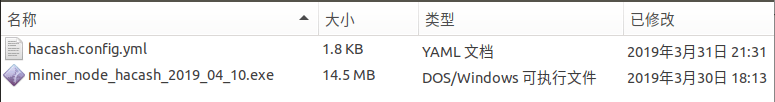
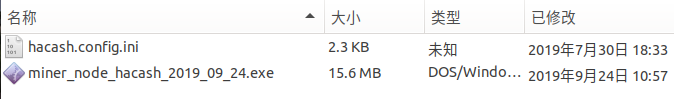
up

diff --git a/index.html b/index.html
@@ -5,7 +5,7 @@
     <meta charset="utf-8">
     <meta http-equiv="X-UA-Compatible" content="IE=edge">
 
-    <title>Hacash 开放金融货币新范式</title>
+    <title>Hacash</title>
 
     <meta name="viewport" content="width=device-width, initial-scale=1, user-scalable=no">
 
@@ -56,7 +56,7 @@
                 <b class="icologo">ㄜ</b>
             </div>
         </div><div class="pagecard info">
-            <h1><span>Hacash</span>开放金融货币新范式</h1>
+            <h1><span>Hacash</span></h1>
             <h3>一套面向开放金融和三方审计可大规模支付实时结算的加密货币生产流通及数字财富储藏体系。旨在提供无许可技术保证型可靠货币、消除信任成本、避免金融欺诈。货币符号为“ㄜ”，简称HCX。</h3>
             <div class="btns">
                 <a class="btn l" href="#quickstart"><i class="ftico">&#xf1d9;</i>快速开始使用</a>
@@ -188,24 +188,26 @@
         <div class="pagecard">
             <h1 class="pgtt">加入我们</h1>
             <div class="qrcode">
+                <!--
                 <div class="wx">
                     <img src="/image/joinus/hcx_coin.png" />
-                    <h5>共识社区微信群</h5>
+                    <h5>微信群</h5>
                 </div>
+                -->
                 <div class="qq">
                     <img src="/image/joinus/hcx_qq.jpg" />
-                    <h5>共识社区QQ交流群</h5>
+                    <h5>QQ交流群</h5>
                 </div>
                 <!--
                 <div class="wx">
                     <img data-src="/image/joinus/hcx_tech.png?_=1" />
                     <h5>技术研发群</h5>
                 </div>
-                -->
                 <div class="wb">
                     <img src="/image/joinus/hcx_weibo.png" />
                     <h5>开发者微博</h5>
                 </div>
+                -->
             </div>
             <div class="link">
                 <h5>其他社交平台：</h5>
@@ -225,7 +227,7 @@
     <div class="container">
         <div class="pagecard">
             <h1 class="pgtt">快速开始使用</h1>
-            <p class="p">主网第一阶段已经稳定运行，目前支持记账挖矿和转账交易。部分开发者已使用桌面电脑和云主机运行Hacash节点，相关的工具和服务正在开发当中。</p>
+            <p class="p">主网第一阶段已经稳定运行，目前支持记账挖矿、钻石采掘和货币、钻石的转账交易。部分开发者已使用桌面电脑、双路服务器和云主机运行Hacash节点，相关的工具和服务正在开发当中。</p>
             <p class="p">你可以使用在线钱包或者命令行工具，完成账户创建、查询余额、转账、发送交易，查询交易状态等基本操作。</p>
             <p class="p">
                 <a class="button olwlt" href="https://wallet.hacash.org" target="_blank">
@@ -254,8 +256,8 @@
 
             <br><br>
             <h1 class="pgtt">一、全节点挖矿</h1>
-            <p class="p">Hacash 发明的 x16rs 挖矿算法随机使用 16 种 sha3 系列的 hash 算法，可抵抗 ASIC 矿机的出现。目前最好的方案是使用电脑 CPU 进行记账挖矿，在初期将奖励的货币更广泛的分散在个人的手中，减少或规避了大量货币集中在少部分人手里，从而尽量避免价格操纵、恶意炒作等问题。</p>
-            <p class="p">欢迎大家使用闲置的桌面 PC 电脑或笔记本电脑进行记账挖矿，换取货币奖励。也可以购买的云服务商提供的主机成为稳定的矿工节点，以便打包交易并收取交易手续费，为整个网络的普及应用做出贡献。</p>
+            <p class="p">Hacash 发明的 X16RS 挖矿算法随机使用 16 种 sha3 系列的 hash 算法，可抵抗 ASIC 矿机的出现。目前最好的方案是使用电脑 CPU 进行记账挖矿，在初期将奖励的货币更广泛的分散在个人的手中，减少或规避了大量货币集中在少部分人手里，从而尽量避免价格操纵、恶意炒作等问题。</p>
+            <p class="p">欢迎大家使用闲置的桌面 PC 电脑或笔记本电脑进行记账挖矿，换取货币奖励。也可以购买的云服务商提供的主机成为稳定的矿工、矿池节点，以便收集打包交易，为整个网络的普及应用做出贡献。</p>
             <p class="p">
                 <a class="dld" href="https://github.com/hacash/blockmint#%E8%BF%90%E8%A1%8C%E6%8C%96%E7%9F%BF%E8%8A%82%E7%82%B9" target="_blank">
                     Linux下编译部署矿工节点操作手册
@@ -271,19 +273,18 @@
             <p class="p">
                 <img class="cutwrap lazy" data-src="/image/tobeminer/zipcon.png" />
             </p>
-            <p class="p">压缩包内的 hacash.config.yml 文件是矿工程序必备的配置文件，你可以用记事本程序打开此文件并修改它。右键单击 hacash.config.yml 文件选择以记事本打开，可看到内部内容为：</p>
+            <p class="p">压缩包内的 hacash.config.ini 文件是Hacash全节点程序必备的配置文件，你可以用记事本程序打开此文件并修改它。右键单击 hacash.config.ini 文件选择以记事本打开，可看到内部内容为：</p>
             <p class="p">
-                <img class="cutwrap lazy" data-src="/image/tobeminer/config_yml.png" />
+                <img class="cutwrap lazy" data-src="/image/tobeminer/config_ini.png" />
             </p>
-            <p class="p">最简单的情况下，你只需要修改配置文件中的两个参数：</p>
+            <p class="p">最简单的情况下，你只需要修改配置文件中<span class="val">[miner]</span>项下的两个参数 <span class="val">supervene</span>和<span class="val">rewards</span>：</p>
             <p class="p">
-                <img class="cutwrap lazy" data-src="/image/tobeminer/config_yml_change.png" />
+                <img class="cutwrap lazy" data-src="/image/tobeminer/config_ini_change.png" />
             </p>
             <p class="p">其中<span class="val">supervene</span>参数表示同时启用多少个线程挖矿，一般来说与你的电脑的 CPU 核心数量一致，能发挥最大的计算能力。比如你的电脑 CPU 核心数量为 2 核， 则将<span class="val">supervene: 8</span>改为<span class="val">supervene: 2</span>，如果为 4 核心则改为<span class="val">supervene: 4</span>，以此类推。这时电脑 CPU 的利用率为 100%，为避免电脑卡死，一般建议留出一个核心用于其它计算：4核心则设置为3，8核心则设置为7。也可以根据你的情况自由设置，数值越小，CPU 利用率越低。此值不支持小数，最小为1，也不建议设置成比电脑 CPU 核心数量更大的值。</p>
-            <p class="p"><span class="val">rewards</span>参数下面的 8 个字符串，是 Hacash 的账户地址，这里用来收取挖矿产生的货币奖励。此地址必须通过密码生成，有特定的格式，自己手动修改拼凑的地址无效！你可以使用 <a class="button olwlt" href="https://wallet.hacash.org" target="_blank">在线钱包</a>，通过只有你自己知晓并严格保密和做好备份的密码生成账户地址。</p>
-            <p class="p">一般建议生成 1 到 4 个地址，替换<span class="val">rewards</span>参数下面默认的地址。可删除多余的地址行。</p>
-            <p class="p notice">【请注意！】如果你不了解<span class="val">.yml</span>配置文件的格式要求，请不要任意更改配置文件中的字段格式、缩进、换行、空格等，格式错误将导致程序无法读取正确的配置信息，从而造成运行失败。</p>
-            <p class="p">修改完成后，保存文件并关闭记事本程序。请检查你的电脑正确的连接了互联网（矿工程序需要下载区块数据和实时同步新区快和交易数据）。此时即可双击运行 miner_node_hacash_2019_××_××.exe 可执行程序，不出错的情况下，将开到挖矿程序成功连接网络并开始同步下载数据：</p>
+            <p class="p"><span class="val">rewards</span>参数的字符串值，是 Hacash 的账户地址，这里用来收取挖矿产生的货币奖励。此地址必须通过密码生成，有特定的格式，自己手动修改拼凑的地址无效！你可以使用 <a class="button olwlt" href="https://wallet.hacash.org" target="_blank">在线钱包</a>，通过只有你自己知晓并严格保密和做好备份的密码，或者随机创建的私钥，生成账户地址。</p>
+            <p class="p notice">【请注意！】如果你不了解<span class="val">.ini</span>配置文件的格式要求，请不要任意更改配置文件中的字段格式、缩进、换行、空格等，格式错误将导致程序无法读取正确的配置信息，从而造成运行失败。</p>
+            <p class="p">修改完成后，保存文件并关闭记事本程序。请检查你的电脑正确的连接了互联网（矿工程序需要下载区块数据和实时同步新区快和交易数据）。此时即可双击运行 miner_node_hacash_2020_××_××.exe 可执行程序，不出错的情况下，将看到到挖矿程序成功连接网络并开始同步下载数据：</p>
             <p class="p">
                 <img class="cutwrap lazy" data-src="/image/tobeminer/sync_data.png" />
             </p>
@@ -292,13 +293,13 @@
                 <img class="cutwrap lazy" data-src="/image/tobeminer/sync_finish.png" />
             </p>
             <p class="p">这时程序已经自动开始挖矿了，可打开任务管理器查看 CPU 的利用率。</p>
-            <p class="p">整个 Hacash 矿工网络会大约 288 个区块约一天时间调整一次算力难度值，以保证每 5 分钟挖出一个区块。耐心等待 5 到 10 分钟，即可在程序窗口内看到打印信息：</p>
+            <p class="p">整个 Hacash 矿工网络会大约 288 个区块约一天时间调整一次算力难度值，以保证平均每 5 分钟挖出一个区块。耐心等待 5 到 10 分钟，即可在程序窗口内看到打印信息：</p>
             <p class="p">
                 <img class="cutwrap lazy" data-src="/image/tobeminer/new_block.png" />
             </p>
             <p class="p">... ... discovery new block insert success ... 打印信息表示从网络中发现了一个新的区块（别的矿工挖出来的区块），自己重新开始下一轮的挖矿。</p>
             <p class="p">⬤  ㄜ1:248, bh: 20735, tx: 0, hx: 00000003593c ... ... 打印信息表示自己抢先挖出了一个区块并成功获取了 1 枚 HCX 货币的奖励！</p>
-            <p class="p">【注意】如果中间过程中出现了错误，或者点击执行矿工程序没有反应，请确保你的网络保持在线。挖矿过程中也不能断网，否则挖矿程序无法实时同步区块信息，将导致挖矿无效！ 如果出现任何长时间无响应的问题，请关闭后重启挖矿客户端。</p>
+            <p class="p">【注意】如果中间过程中出现了错误，或者点击执行矿工程序没有反应，请确保你的网络环境良好并始终保持在线。挖矿过程中也不能断网，否则挖矿程序无法实时同步区块信息，将导致挖矿分叉无效！ 如果出现任何长时间无响应的问题，请关闭后重启挖矿客户端。</p>
         </div>
     </div>
 
@@ -307,7 +308,7 @@
     <div class="container">
         <div class="pagecard">
             <h1 class="pgtt">二、加入矿池挖矿</h1>
-            <p class="p">上面说的全节点挖矿需要同步所有区块数据，并且对网络环境的稳定性有相当高的要求（不然容易断网分叉），如果不具备较专业的硬件和网络运维知识、或者没有强大的CPU性能的计算机器，采用全节点挖矿方式将遇到一些不必要的麻烦，或者难以得到挖矿产出。</p>
+            <p class="p">上面说的全节点挖矿需要同步所有区块数据，并且对网络环境的稳定性有相当高的要求（不然容易断网分叉），如果不具备较专业的硬件环境和网络运维知识、或者没有强大的CPU性能的计算机器，采用全节点挖矿方式将遇到一些不必要的麻烦，或者难以得到挖矿产出。</p>
             <p class="p">我们建议小规模的挖矿参与者加入到矿池中，从而可以避免很多数据和网路运维的麻烦，并且也通过平均的算力统计方法，让大家能更加确定和均匀地分配到挖矿成果，抹平算力波动和运气成分。</p>
             <p class="p">通过点击以下链接，下载矿池型挖矿程序：</p>
             <p class="p">
@@ -319,14 +320,14 @@
             <p class="p">
                 <img class="cutwrap lazy" data-src="/image/tobeminer/zipcon_pool.png" />
             </p>
-            <p class="p">压缩包内的 poolworker.config.yml 文件是矿工程序必备的配置文件，你可以用记事本程序打开此文件并修改它。右键单击 poolworker.config.yml 文件选择以记事本打开，可看到内部内容为：</p>
+            <p class="p">压缩包内的 poolworker.config.ini 文件是矿工程序必备的配置文件，你可以用记事本程序打开此文件并修改它。右键单击 poolworker.config.ini 文件选择以记事本打开，可看到内部内容为：</p>
             <p class="p">
-                <img class="cutwrap lazy" data-src="/image/tobeminer/poolworker_config_yml.png" />
+                <img class="cutwrap lazy" data-src="/image/tobeminer/poolworker_config_ini.png" />
             </p>
-            <p class="p"><span class="val">pool</span>参数是矿池的地址，表示要连接的服务器的IP和端口。请联系你的矿池服务商获取有效的地址。不同的矿池服务商的抽成比例不一样，但是一些恶劣的人搭建的矿池将会有卷款潜逃的可能，请一定注意选择你信任的矿池方（不要轻易相信过低的抽成比例甚至倒贴补贴），否则将被欺骗而白白浪费算力。</p>
-            <p class="p"><span class="val">rewards</span>参数的字符串，是 Hacash 的账户地址，这里用来收取挖矿产生的货币奖励。此地址必须通过密码生成，有特定的格式，自己手动修改拼凑的地址无效！你可以使用 <a class="button olwlt" href="https://wallet.hacash.org" target="_blank">在线钱包</a>，通过只有你自己知晓并严格保密和做好备份的密码生成账户地址。此地址仅限一个。</p>
+            <p class="p"><span class="val">pool</span>参数是矿池的地址，表示要连接的服务器的IP和端口。请联系你的矿池服务商获取有效的地址。不同的矿池服务商的抽成比例不一样，但是一些不诚实的人搭建的矿池将会有卷款潜逃的可能，请一定注意选择你信任的矿池方（不要轻易相信过低的抽成比例甚至补贴），否则将被欺骗而白白浪费算力。</p>
+            <p class="p"><span class="val">rewards</span>参数的字符串，是 Hacash 的账户地址，这里用来收取挖矿产生的货币奖励。此地址必须通过密码生成，有特定的格式，自己手动修改拼凑的地址无效！你可以使用 <a class="button olwlt" href="https://wallet.hacash.org" target="_blank">在线钱包</a>，通过只有你自己知晓并严格保密和做好备份的密码，或者随机创建的私钥，生成账户地址。此地址仅限一个。</p>
             <p class="p">其中<span class="val">supervene</span>参数表示同时启用多少个线程挖矿，一般来说与你的电脑的 CPU 核心数量一致，能发挥最大的计算能力。比如你的电脑 CPU 核心数量为 2 核， 则将<span class="val">supervene: 8</span>改为<span class="val">supervene: 2</span>，如果为 4 核心则改为<span class="val">supervene: 4</span>，以此类推。这时电脑 CPU 的利用率为 100%，为避免电脑卡死，一般建议留出一个核心用于其它计算：4核心则设置为3，8核心则设置为7。也可以根据你的情况自由设置，数值越小，CPU 利用率越低。此值不支持小数，最小为1。注意：不能设置成比电脑 CPU 核心数量更大的值，否则算力将极度降低。</p>
-            <p class="p">修改完成后，保存文件并关闭记事本程序。请检查你的电脑正确的连接了互联网。此时即可双击运行 miner_pool_worker_hacash_2019_××_××.exe 可执行程序，不出错的情况下，将看到以下界面：</p>
+            <p class="p">修改完成后，保存文件并关闭记事本程序。请检查你的电脑正确的连接了互联网。此时即可双击运行 miner_pool_worker_hacash_2020_××_××.exe 可执行程序，不出错的情况下，将看到以下类似打印信息：</p>
             <p class="p">
                 <img class="cutwrap lazy" data-src="/image/tobeminer/pool_worker_start.png" />
             </p>
@@ -346,20 +347,22 @@
             <h1 class="pgtt">搭建矿池服务</h1>
             <p class="p">技术上来说，矿池就是一个挖矿全节点，只不过挖矿的运算被分配给很多台其他的计算机器去执行，它们之间用网络连接进行通信。也就是说，一个矿池就是一个功能被切分到不同的机器上执行的全节点。</p>
             <p class="p">搭建矿池的也很简单，首先你需要准备一台有外网固定IP的服务器（配置视业务大小而定），然后按上面的方法<a class="dld" href="#minernode">搭建一个挖矿的全节点</a>，等待所有的区块数据同步完毕。</p>
-            <p class="p">然后打开配置文件 hacash.config.yml ， 在末尾加入以下的配置行：</p>
+            <p class="p">然后打开配置文件 hacash.config.ini ，启用<span class="val">[minerpool]</span>项下的<span class="val">enable</span>字段（启用方法为删除enable字段前的分号;字符）：</p>
             <p class="p">
                 <img class="cutwrap lazy" data-src="/image/tobeminer/pool_worker_config.png" />
             </p>
-            <p class="p">关闭重新启动全节点，矿池程序就开始了服务，可以打开一个统计算力数据连接，去查看加入矿池挖矿算力的统计：<a class="dld" target="_blank" href="http://182.92.163.225:3338/minerpool">http://182.92.163.225:3338/minerpool</a>，其中 182.92.163.225 是你的服务器的外网IP。统计内容是实时在线的挖矿客户端连接、费用比例、结算数量统计、挖矿奖励分配等等信息：</p>
+            <p class="p">关闭重新启动全节点，矿池程序就开始了服务，可以打开一个统计算力数据连接，去查看加入矿池挖矿算力的统计：<a class="dld" target="_blank" href="http://182.92.163.225:3340">http://182.92.163.225:3340</a>，其中 182.92.163.225 是你的服务器的外网IP。统计内容是实时在线的挖矿客户端连接、费用比例、结算数量统计、挖矿奖励分配等等信息：</p>
             <p class="p">
                 <img class="cutwrap lazy" data-src="/image/tobeminer/poolworker_count.png" />
             </p>
+            <!--
             <p class="p">点击其中的 <a class="dld" target="_blank" href="http://182.92.163.225:3338/minerpool/transactions">show transactions</a> ，可以看到矿池自动打币结算的每一笔交易，如下：</p>
             <p class="p">
                 <img class="cutwrap lazy" data-src="/image/tobeminer/poolworker_trs.png" />
             </p>
+            -->
             <p class="p">目前矿池结算和自动打币的规则是： 每挖出一个区块算一个统计周期，并结算一次，以周期内所有参与的算力按比例分配挖出的币。应得奖励份额多余2枚则10个区块50分钟打入地址到账， 0.2枚100个区块8.3小时打入， 0.02枚1000区块3.5天到账。</p>
-            <p class="p">大算力特别注意：目前矿池采用出块者和其他算力分别奖励的形式，即除去矿池手续费之外，出块者单独拿50%的奖励，剩下50%由统计周期内其他算力贡献者按算力分配。所有如果某一个地址贡献算力超过矿池总算力的50%，则多余部分的奖励自动分配给其他参与者。也就是说，如果你有极高的算力，最好的做法是将其分散在多个不同的矿池，将算力去中心化。</p>
+            <p class="p">大算力特别注意：目前矿池采用出块者和其他算力分别奖励的形式，即除去矿池手续费之外，出块者单独拿50%的奖励，剩下50%由统计周期内其他算力贡献者按算力分配。所有如果某一个地址贡献算力超过矿池总算力的50%，则多余部分的奖励自动分配给其他参与者。也就是说，如果你有很大的算力，最好的做法是将其分散在多个不同的矿池，将算力去中心化。</p>
         </div>
     </div>
 

diff --git a/jscss/main.css b/jscss/main.css
@@ -1,1 +1,1 @@
-.text-gradient{background-image:-webkit-gradient(linear, 0 0, right bottom, from(#7d7804), to(#005700));-webkit-background-clip:text;-webkit-text-fill-color:transparent}.darkbg{background:#1f2f2f}.darkhr{border-bottom:1px #999 dotted}.lighthr{border-bottom:1px #d0d0d0 dotted}#intro .container{padding-top:240px;padding-bottom:300px}#intro .pagecard{display:inline-block;vertical-align:middle;text-align:center;width:48%;padding:0}#intro .info{background-image:-webkit-gradient(linear, 0 0, right bottom, from(#7d7804), to(#005700));-webkit-background-clip:text;-webkit-text-fill-color:transparent;text-align:left;width:48%}#intro .info h1{font-size:30px;line-height:30px}#intro .info h1 span{font-size:inherit;font-weight:900;margin-right:16px}#intro .info h3{font-size:14px;line-height:20px;padding:10px 0}#intro .info .btns{padding-top:10px}#intro .info .btn,#intro .info i.ftico{display:inline-block;font-size:14px;height:14px;line-height:14px;cursor:pointer;color:#fff;-webkit-text-fill-color:#fff}#intro .info .btn{padding:8px 10px;background:#3d5c5c;border-radius:4px;margin-left:20px}#intro .info .btn.l{margin-left:0;background:#b5a642}#intro .info .btn i.ftico{font-size:12px;margin-right:5px}#intro .logo{text-align:center}#intro .logo .wrap{position:relative;display:inline-block}@keyframes float1{0%{transform:translate(0, -3px)}50%{transform:translate(0, 3px)}100%{transform:translate(0, -3px)}}@keyframes float2{0%{transform:translate(-3px, 0)}50%{transform:translate(3px, 0)}100%{transform:translate(-3px, 0)}}@keyframes float3{0%{transform:translate(3px, -3px)}50%{transform:translate(-3px, 3px)}100%{transform:translate(3px, -3px)}}@keyframes float4{0%{transform:translate(-3px, -3px)}50%{transform:translate(3px, 3px)}100%{transform:translate(-3px, -3px)}}#intro .bs{opacity:1;position:absolute;top:0;left:0;margin-left:30px;margin-top:30px;display:block;width:172px;height:172px;background:#22c335;border-radius:1000px}#intro .bs.s1{animation:float1 5s ease-in-out infinite;top:-40px;left:0;background:rgba(255,0,0,0.5)}#intro .bs.s2{animation:float3 7s ease-in-out infinite;top:-29px;left:29px;background:rgba(255,128,0,0.5)}#intro .bs.s3{animation:float2 3s ease-in-out infinite;top:0;left:40px;background:rgba(255,255,0,0.5)}#intro .bs.s4{animation:float4 9s ease-in-out infinite;top:29px;left:29px;background:rgba(0,255,0,0.5)}#intro .bs.s5{animation:float1 4s ease-in-out infinite;top:40px;left:0;background:rgba(0,255,255,0.5)}#intro .bs.s6{animation:float3 6s ease-in-out infinite;top:29px;left:-29px;background:rgba(0,0,255,0.5)}#intro .bs.s7{animation:float2 8s ease-in-out infinite;top:0;left:-40px;background:rgba(128,0,255,0.5)}#intro .bs.s8{animation:float4 10s ease-in-out infinite;top:-29px;left:-29px;background:rgba(255,0,128,0.5)}#intro .icologo{position:relative;z-index:999;display:block;opacity:1;font-size:150px;font-weight:900;line-height:220px;width:200px;height:200px;text-align:center;color:#1f2f2f;border-radius:1000px;border:16px #1f2f2f solid;text-shadow:0 0 8px rgba(255,255,255,0.75);background:#cfb53b;box-shadow:0 0 50px 20px #cfb53b inset;background-image:linear-gradient(rgba(255,255,255,0.1) 1px, transparent 0),linear-gradient(90deg, rgba(255,255,255,0.1) 1px, transparent 0);background-size:30px 30px,30px 30px}#mainnet .pagecard{display:inline-block;vertical-align:middle}#mainnet .status{width:25%;text-align:right}#mainnet .info{width:73%;text-align:left}#mainnet .info p{font-size:13px;line-height:17px;margin-left:20px;color:#3d5c5c}#mainnet .light{background:#22c335;border-radius:1000px;font-family:monospace;font-size:12px;font-weight:700;min-width:100px;padding:6px 10px;box-shadow:0 0 20px #22c335,0 0 10px #fff inset;border:1px #22c335 solid;color:white;color:rgba(255,255,255,0.8)}#detail{margin-top:20px;padding:10px 0}#detail *{color:#fff;font-size:14px}#detail .head{border-bottom:1px #999 dotted;padding-bottom:20px}#detail .head h1{font-size:22px}#detail .head p{margin:0;margin-top:10px}#detail .item{display:inline-block;vertical-align:top;width:30%;margin-right:4.5%;margin-top:3%}#detail .item .ico{position:relative}#detail .item .ico p{position:relative;display:inline-block;width:80px;height:80px}#detail .item .ico img{position:absolute;top:0;left:0;width:80px;height:80px}#detail .item .ftico{position:relative;z-index:99;width:80px;height:80px;line-height:80px;text-align:center;font-size:44px;color:#1f2f2f}#detail .item h5{font-size:14px;padding:10px 0}#detail .item p{font-size:12px;color:rgba(255,255,255,0.5)}#detail .right{margin-right:0}a.dld{font-size:14px;color:dodgerblue;text-decoration:underline}p.p{margin:12px 0;font-size:14px}#joinus{border-bottom:1px #d0d0d0 dotted}#joinus .link h5{font-size:14px;font-weight:bold;color:#888}#joinus .link .item{display:inline-block;margin:20px;padding:6px 12px;background:#eee;border-radius:8px}#joinus .link .item img{display:inline-block;width:40px;height:40px;vertical-align:middle}#joinus .link .item span{display:inline-block;height:40px;line-height:40px;padding:0 5px;font-size:15px}#joinus .link .item:hover{background:#eed}#joinus .qrcode{padding:20px}#joinus .qrcode h5{z-index:9;position:absolute;bottom:0;left:0;width:100%;text-align:center;background:#ddd}#joinus .qrcode .qq,#joinus .qrcode .wx,#joinus .qrcode .wb{margin-top:20px;display:inline-block;position:relative;overflow:hidden;border:#ddd 1px solid;width:135px;height:202px}#joinus .qrcode .qq img,#joinus .qrcode .wx img,#joinus .qrcode .wb img{position:absolute;display:block;width:135px}#joinus .qrcode .qq,#joinus .qrcode .wx{margin-right:60px}#joinus .qrcode .wx img{width:160px;top:-54px;left:-12px}#joinus .qrcode .wb img{width:440px;top:-60px;left:-152px}#quickstart{border-bottom:1px #d0d0d0 dotted}#quickstart .pagecard{padding:24px 0}#quickstart a.olwlt{background:darkorange}#quickstart a.cmdtl{margin-left:20px;background:darkcyan}#minernode .pagecard{border-bottom:1px #d0d0d0 dotted;padding-bottom:24px}#minernode .miner_nav{margin-top:50px;font-size:14px;color:#888;padding:5px 10px;border:#ddd dotted 1px}#minernode .miner_nav a{font-size:14px;color:dodgerblue;text-decoration:underline}#minernode img.cutwrap{margin:30px 0;border:4px #999 solid;padding:10px;box-shadow:4px 4px 30px #999;max-width:90%}#minernode span.val{background:#ccc;font-size:14px;padding:2px 6px;border-radius:4px}#minernode p.notice{color:orangered}#minernode .down.windows{background:dodgerblue;border-radius:100px}#minernode .down.ubuntu{background:coral;border-radius:100px}@media screen and (max-width:512px){#intro .container{padding-top:0;padding-bottom:0}#intro .logo{padding-top:60px;padding-bottom:60px}#intro .info{border-bottom:1px #d0d0d0 dotted;text-align:center;padding-bottom:30px}#intro .info h1{margin-bottom:10px}#intro .info h1 span{display:block;margin:0;margin-bottom:10px}#intro .info .btns .l{display:block;margin:auto;margin-bottom:20px;width:174px}#intro .info .btns .z{margin:0}#mainnet .status{display:block;padding:20px;text-align:center}#joinus{border-bottom:1px #d0d0d0 dotted}#joinus .qrcode{text-align:center}#joinus .qrcode>div{display:inline-block;margin:0 !important;margin-top:20px !important}#detail .item{border-bottom:#2e4646 1px dotted;text-align:center;margin-top:30px;padding-bottom:40px}#detail .item.end{border:none;padding-bottom:10px}}
+.text-gradient{background-image:-webkit-gradient(linear, 0 0, right bottom, from(#7d7804), to(#005700));-webkit-background-clip:text;-webkit-text-fill-color:transparent}.darkbg{background:#1f2f2f}.darkhr{border-bottom:1px #999 dotted}.lighthr{border-bottom:1px #d0d0d0 dotted}#intro .container{padding-top:240px;padding-bottom:300px}#intro .pagecard{display:inline-block;vertical-align:middle;text-align:center;width:48%;padding:0}#intro .info{background-image:-webkit-gradient(linear, 0 0, right bottom, from(#7d7804), to(#005700));-webkit-background-clip:text;-webkit-text-fill-color:transparent;text-align:left;width:48%}#intro .info h1{font-size:30px;line-height:30px}#intro .info h1 span{font-size:inherit;font-weight:900;margin-right:16px}#intro .info h3{font-size:14px;line-height:20px;padding:10px 0}#intro .info .btns{padding-top:10px}#intro .info .btn,#intro .info i.ftico{display:inline-block;font-size:14px;height:14px;line-height:14px;cursor:pointer;color:#fff;-webkit-text-fill-color:#fff}#intro .info .btn{padding:8px 10px;background:#3d5c5c;border-radius:4px;margin-left:20px}#intro .info .btn.l{margin-left:0;background:#b5a642}#intro .info .btn i.ftico{font-size:12px;margin-right:5px}#intro .logo{text-align:center}#intro .logo .wrap{position:relative;display:inline-block}@keyframes float1{0%{transform:translate(0, -3px)}50%{transform:translate(0, 3px)}100%{transform:translate(0, -3px)}}@keyframes float2{0%{transform:translate(-3px, 0)}50%{transform:translate(3px, 0)}100%{transform:translate(-3px, 0)}}@keyframes float3{0%{transform:translate(3px, -3px)}50%{transform:translate(-3px, 3px)}100%{transform:translate(3px, -3px)}}@keyframes float4{0%{transform:translate(-3px, -3px)}50%{transform:translate(3px, 3px)}100%{transform:translate(-3px, -3px)}}#intro .bs{opacity:1;position:absolute;top:0px;left:0px;margin-left:30px;margin-top:30px;display:block;width:172px;height:172px;background:#22c335;border-radius:1000px}#intro .bs.s1{animation:float1 5s ease-in-out infinite;top:-40px;left:0;background:rgba(255,0,0,0.5)}#intro .bs.s2{animation:float3 7s ease-in-out infinite;top:-29px;left:29px;background:rgba(255,128,0,0.5)}#intro .bs.s3{animation:float2 3s ease-in-out infinite;top:0;left:40px;background:rgba(255,255,0,0.5)}#intro .bs.s4{animation:float4 9s ease-in-out infinite;top:29px;left:29px;background:rgba(0,255,0,0.5)}#intro .bs.s5{animation:float1 4s ease-in-out infinite;top:40px;left:0;background:rgba(0,255,255,0.5)}#intro .bs.s6{animation:float3 6s ease-in-out infinite;top:29px;left:-29px;background:rgba(0,0,255,0.5)}#intro .bs.s7{animation:float2 8s ease-in-out infinite;top:0;left:-40px;background:rgba(128,0,255,0.5)}#intro .bs.s8{animation:float4 10s ease-in-out infinite;top:-29px;left:-29px;background:rgba(255,0,128,0.5)}#intro .icologo{position:relative;z-index:999;display:block;opacity:1;font-size:150px;font-weight:900;line-height:220px;width:200px;height:200px;text-align:center;color:#1f2f2f;border-radius:1000px;border:16px #1f2f2f solid;text-shadow:0 0 8px rgba(255,255,255,0.75);background:#cfb53b;box-shadow:0 0 50px 20px #cfb53b inset;background-image:linear-gradient(rgba(255,255,255,0.1) 1px, transparent 0),linear-gradient(90deg, rgba(255,255,255,0.1) 1px, transparent 0);background-size:30px 30px, 30px 30px}#mainnet .pagecard{display:inline-block;vertical-align:middle}#mainnet .status{width:25%;text-align:right}#mainnet .info{width:73%;text-align:left}#mainnet .info p{font-size:13px;line-height:17px;margin-left:20px;color:#3d5c5c}#mainnet .light{background:#22c335;border-radius:1000px;font-family:monospace;font-size:12px;font-weight:700;min-width:100px;padding:6px 10px;box-shadow:0 0 20px #22c335,0 0 10px #fff inset;border:1px #22c335 solid;color:white;color:rgba(255,255,255,0.8)}#detail{margin-top:20px;padding:10px 0}#detail *{color:#fff;font-size:14px}#detail .head{border-bottom:1px #999 dotted;padding-bottom:20px}#detail .head h1{font-size:22px}#detail .head p{margin:0;margin-top:10px}#detail .item{display:inline-block;vertical-align:top;width:30%;margin-right:4.5%;margin-top:3%}#detail .item .ico{position:relative}#detail .item .ico p{position:relative;display:inline-block;width:80px;height:80px}#detail .item .ico img{position:absolute;top:0;left:0;width:80px;height:80px}#detail .item .ftico{position:relative;z-index:99;width:80px;height:80px;line-height:80px;text-align:center;font-size:44px;color:#1f2f2f}#detail .item h5{font-size:14px;padding:10px 0}#detail .item p{font-size:12px;color:rgba(255,255,255,0.5)}#detail .right{margin-right:0}a.dld{font-size:14px;color:dodgerblue;text-decoration:underline}p.p{margin:12px 4px;font-size:14px;line-height:24px}#joinus{border-bottom:1px #d0d0d0 dotted}#joinus .link h5{font-size:14px;font-weight:bold;color:#888}#joinus .link .item{display:inline-block;margin:20px;padding:6px 12px;background:#eee;border-radius:8px}#joinus .link .item img{display:inline-block;width:40px;height:40px;vertical-align:middle}#joinus .link .item span{display:inline-block;height:40px;line-height:40px;padding:0 5px;font-size:15px}#joinus .link .item:hover{background:#eed}#joinus .qrcode{padding:20px}#joinus .qrcode h5{z-index:9;position:absolute;bottom:0px;left:0;width:100%;text-align:center;background:#ddd}#joinus .qrcode .qq,#joinus .qrcode .wx,#joinus .qrcode .wb{margin-top:20px;display:inline-block;position:relative;overflow:hidden;border:#ddd 1px solid;width:135px;height:202px}#joinus .qrcode .qq img,#joinus .qrcode .wx img,#joinus .qrcode .wb img{position:absolute;display:block;width:135px}#joinus .qrcode .qq,#joinus .qrcode .wx{margin-right:60px}#joinus .qrcode .wx img{width:160px;top:-54px;left:-12px}#joinus .qrcode .wb img{width:440px;top:-60px;left:-152px}#quickstart{border-bottom:1px #d0d0d0 dotted}#quickstart .pagecard{padding:24px 0}#quickstart a.olwlt{background:darkorange}#quickstart a.cmdtl{margin-left:20px;background:darkcyan}#minernode .pagecard{border-bottom:1px #d0d0d0 dotted;padding-bottom:24px}#minernode .miner_nav{margin-top:50px;font-size:14px;color:#888;padding:5px 10px;border:#ddd dotted 1px}#minernode .miner_nav a{font-size:14px;color:dodgerblue;text-decoration:underline}#minernode img.cutwrap{margin:30px 0;border:4px #999 solid;padding:10px;box-shadow:4px 4px 30px #999;max-width:90%}#minernode span.val{background:#ddd;font-size:14px;padding:0 4px;border-radius:4px}#minernode p.notice{color:orangered}#minernode .down.windows{background:dodgerblue;border-radius:100px}#minernode .down.ubuntu{background:coral;border-radius:100px}@media screen and (max-width:512px){#intro .container{padding-top:0;padding-bottom:0}#intro .logo{padding-top:60px;padding-bottom:60px}#intro .info{border-bottom:1px #d0d0d0 dotted;text-align:center;padding-bottom:30px}#intro .info h1{margin-bottom:10px}#intro .info h1 span{display:block;margin:0;margin-bottom:10px}#intro .info .btns .l{display:block;margin:auto;margin-bottom:20px;width:174px}#intro .info .btns .z{margin:0}#mainnet .status{display:block;padding:20px;text-align:center}#joinus{border-bottom:1px #d0d0d0 dotted}#joinus .qrcode{text-align:center}#joinus .qrcode>div{display:inline-block;margin:0 !important;margin-top:20px !important}#detail .item{border-bottom:#2e4646 1px dotted;text-align:center;margin-top:30px;padding-bottom:40px}#detail .item.end{border:none;padding-bottom:10px}}

diff --git a/jscss/main.less b/jscss/main.less
@@ -276,9 +276,11 @@ a.dld{
     color: dodgerblue;
     text-decoration: underline;
 }
+
 p.p{
-    margin: 12px 0;
+    margin: 12px 4px;
     font-size: 14px;
+    line-height: 24px;
 }
 
 
@@ -396,9 +398,9 @@ p.p{
         max-width: 90%;
     }
     span.val{
-        background: #ccc;
+        background: #ddd;
         font-size: 14px;
-        padding: 2px 6px;
+        padding: 0 4px;
         border-radius: 4px;
     }
     p.notice{
